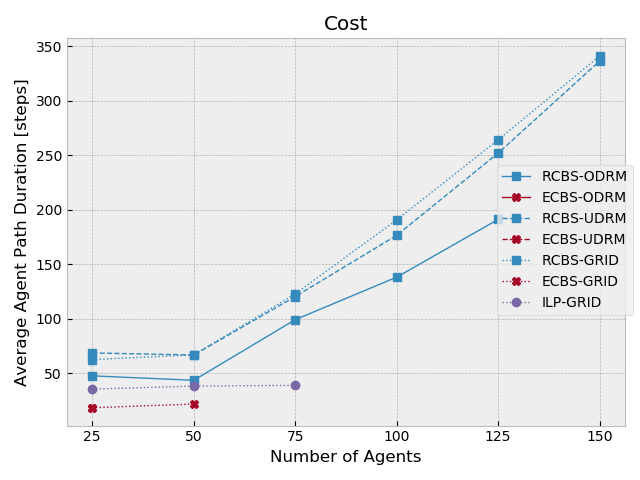
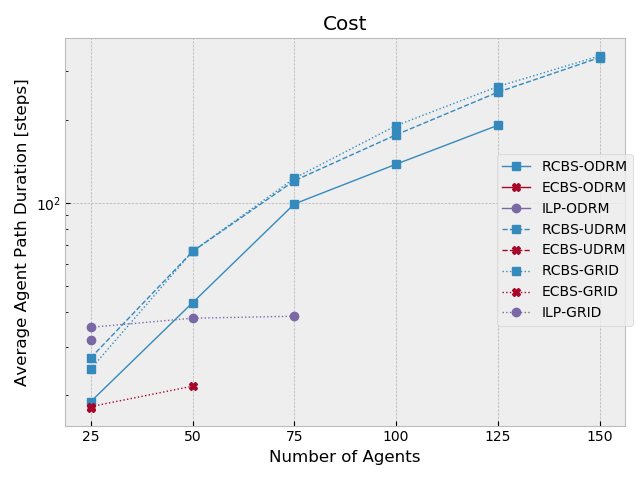
costs also log

diff --git a/roadmaps/adamsmap_eval/script/eval_centralized_pathfinding_plot.py b/roadmaps/adamsmap_eval/script/eval_centralized_pathfinding_plot.py
@@ -137,12 +137,6 @@ if __name__ == "__main__":
                     if len(tmp_plot):
                         to_plot.append(np.mean(np.array(tmp_plot)))
                         x.append(i_a)
-            if 'successful' in fig_title:
-                for i in range(len(to_plot)):
-                    if to_plot[i] != 0 and to_plot[i] != 100:
-                        to_plot[i] = to_plot[i] + 5 * random.random()
-            if "RCBS" in combination_name and 'cost' in fig_title:
-                to_plot[0] = 2.5 * to_plot[0] # trying something
             line, = plt.plot(
                 x,
                 to_plot,
@@ -173,6 +167,7 @@ if __name__ == "__main__":
             ax.set_yscale('log')
         elif fig_title == "cost":
             ax.set_ylabel("Average Agent Path Duration [steps]")
+            ax.set_yscale('log')
         plt.tight_layout()
         fig.savefig(fname=folder + fname_base + "." + fig_title + ".png")
 
